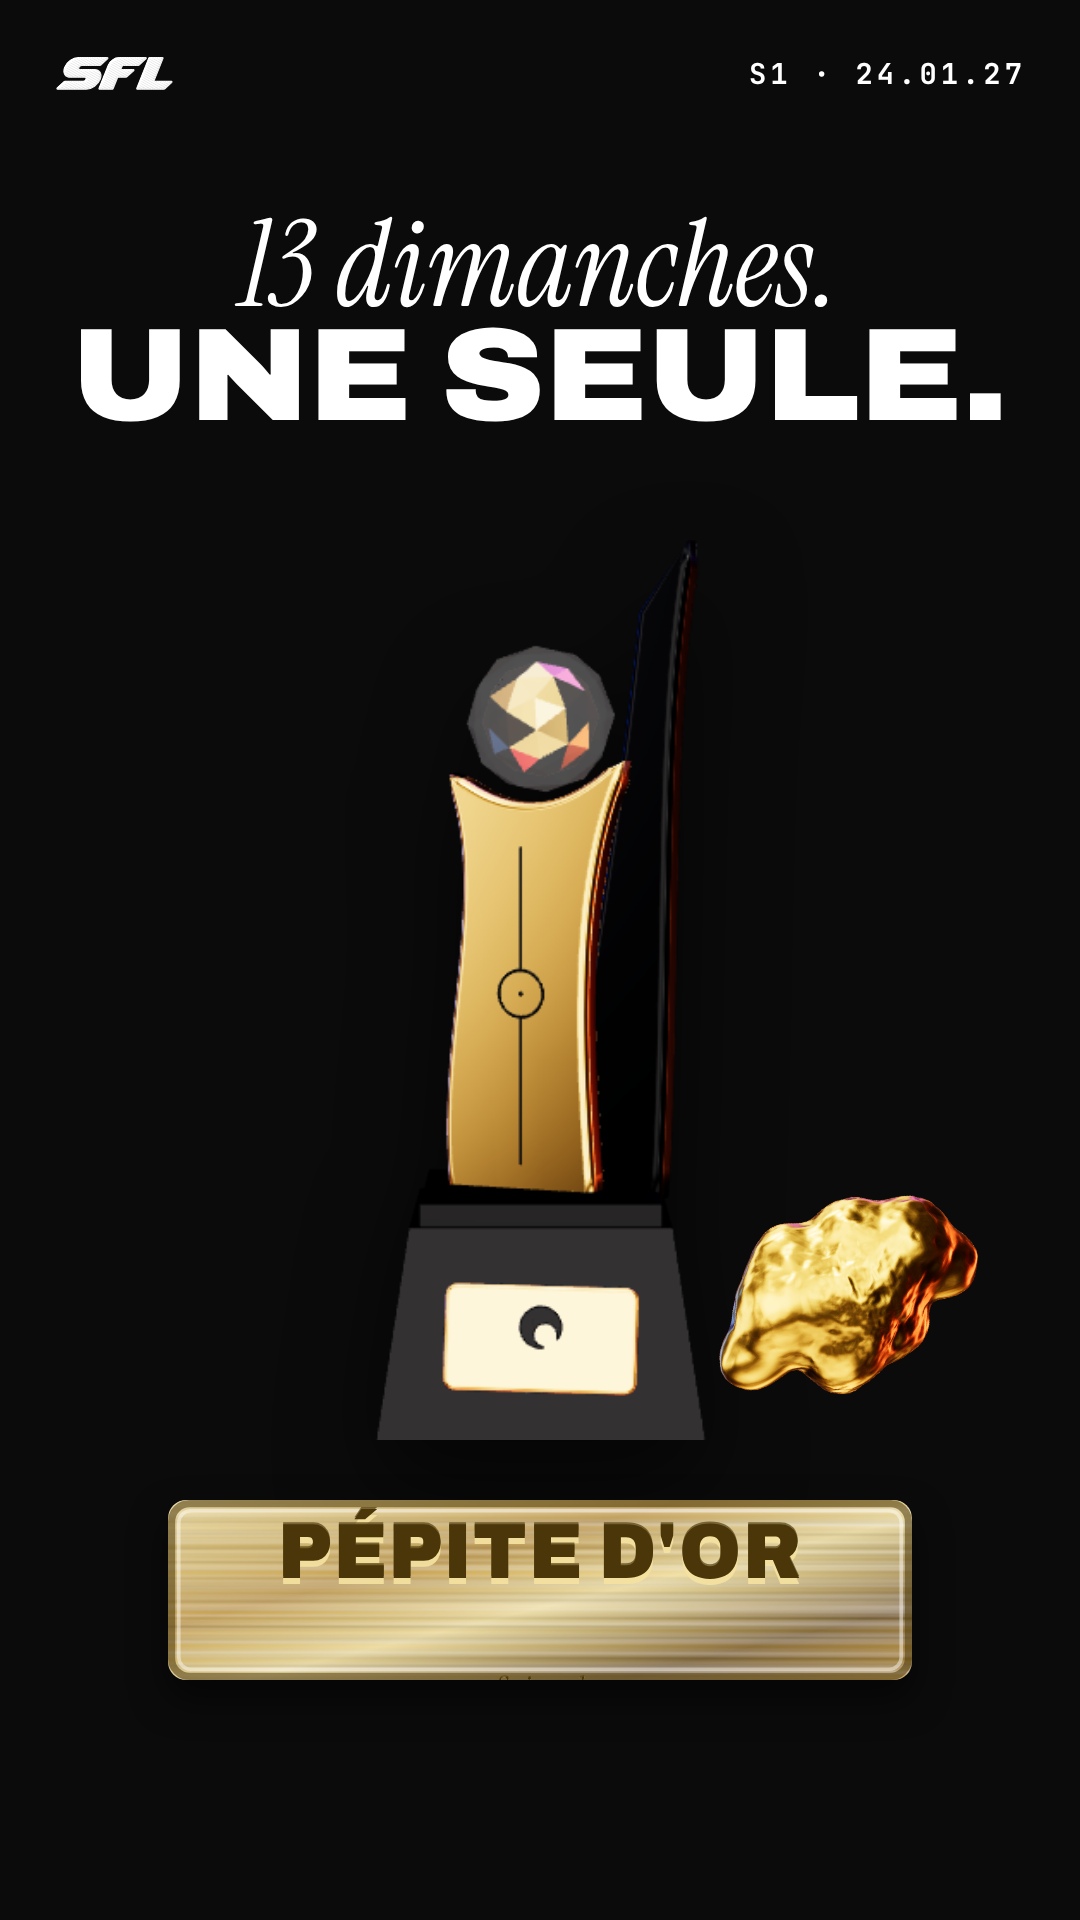
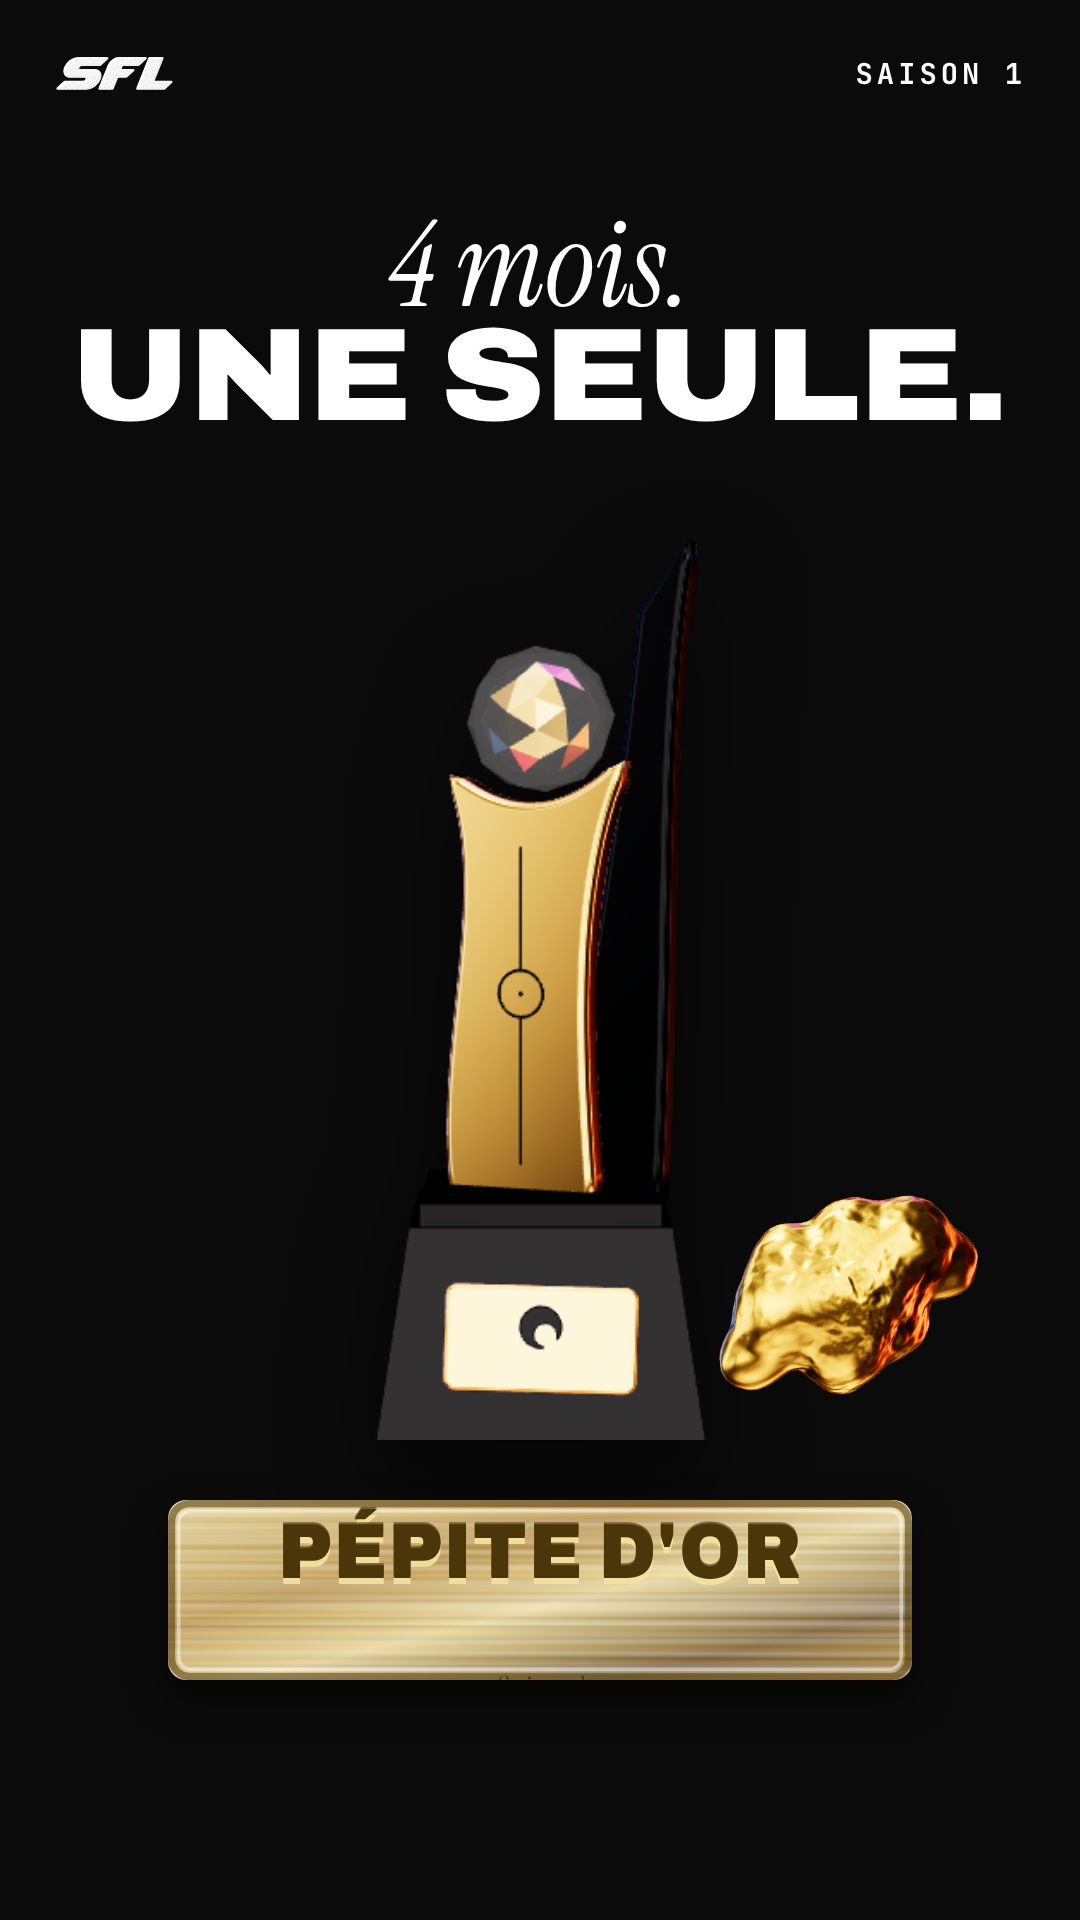
Saison de 4 mois (16 à 18 journées) : « 13 dimanches » remplacé dans les visuels, la bio, les pubs et les fiches
Claude-Session: https://claude.ai/code/session_01T2vpMdLA1mAj6R84rgNPVD

diff --git a/reseaux/kit-v2/kit2.py b/reseaux/kit-v2/kit2.py
@@ -66,15 +66,15 @@ job('posts/09-le-lieu',W,H,6,f'''<div class="ph" style="inset:0;background-image
 <div style="position:absolute;left:10px;right:10px;bottom:10px;padding:8px 9px;overflow:hidden">{papier(161,60)}<div style="position:relative;color:{EN}"><div class="S" style="font-size:13px;color:{EM}">Ici, tout le monde commence</div><div class="A" {A(125,20)}>inconnu.</div></div></div>''')
 coupes=[('coupe-pepite',"Pépite d'Or"),('coupe-buteur','Buteur'),('coupe-passeur','Passeur'),('coupe-defenseur','Défenseur'),('coupe-mvp','MVP')]
 row=''.join(f'<div style="display:grid;justify-items:center;gap:5px"><img src="{TR(c+"-or")}" style="height:{74 if i==0 else 54}px;display:block;filter:drop-shadow(0 3px 4px rgba(0,0,0,.5))"><div class="A" style="font-stretch:62%;font-size:{8 if i==0 else 6.5}px;color:{BLANC};text-align:center;white-space:nowrap">{n}</div></div>' for i,(c,n) in enumerate(coupes))
-job('posts/10-trophees-saison',W,H,6,f'<div style="position:absolute;inset:0;background:{NOIR}"></div>'+top(BLANC,'Saison 1 · 24.01.27',BLANC)+f'''<div style="position:absolute;left:12px;right:12px;top:26px;color:{BLANC}"><div class="S" style="font-size:14px;color:{BLANC}">Ce qui se gagne cette saison</div><div class="A" {A(125,20)}>Les trophées</div></div>
+job('posts/10-trophees-saison',W,H,6,f'<div style="position:absolute;inset:0;background:{NOIR}"></div>'+top(BLANC,'Saison 1',BLANC)+f'''<div style="position:absolute;left:12px;right:12px;top:26px;color:{BLANC}"><div class="S" style="font-size:14px;color:{BLANC}">Ce qui se gagne cette saison</div><div class="A" {A(125,20)}>Les trophées</div></div>
 <div style="position:absolute;left:6px;right:6px;bottom:40px;display:flex;justify-content:space-around;align-items:flex-end">{row}</div>
 <div style="position:absolute;left:12px;right:12px;bottom:12px;text-align:center">{mono("L'or au 1er · l'argent au 2e · le bronze au 3e · gardés à vie",'#ffffffaa',4.2)}</div>''')
 job('posts/11-pepite-or',W,H,6,f'<div style="position:absolute;inset:0;background:{NOIR}"></div>'+top(BLANC,'24.01.27',BLANC)+f'''<div style="position:absolute;left:0;right:0;top:20px;text-align:center"><div class="S" style="font-size:14px;color:{BLANC}">La nuit de la</div></div>
 <img src="{TR('coupe-pepite-or')}" style="position:absolute;left:50%;top:38px;height:112px;transform:translateX(-50%);filter:drop-shadow(0 6px 8px rgba(0,0,0,.6))">
 <div style="position:absolute;left:28px;top:156px">{plaque("Pépite d'Or",'or',124,30,13,'Saison 1',95)}</div><div style="position:absolute;left:0;right:0;top:192px;display:flex;justify-content:center">{pierre('diamant',10)}</div>
-<div style="position:absolute;left:0;right:0;bottom:10px;text-align:center">{mono('13 dimanches · une seule',BLANC,4.6)}</div>''')
+<div style="position:absolute;left:0;right:0;bottom:10px;text-align:center">{mono('4 mois · une seule',BLANC,4.6)}</div>''')
 job('posts/12-annonce-saison',W,H,6,tissu(VB,W,H)+couture(OR,6,4)+top(CR,'Annonce',OR)+f'''<div style="position:absolute;left:0;right:0;top:22%;display:flex;justify-content:center">{brode(OR,'34px')}</div>
-<div style="position:absolute;left:0;right:0;top:50%;text-align:center;color:{CR}"><div class="S" style="font-size:16px;color:{OR}">Saison 1</div><div class="A" {A(100,18)}>13 dimanches.</div><div style="margin-top:6px">{mono('1er nov. → 24 janv. · 12 h 30',CR,4.4)}<br>{mono('Métropole lilloise',CR,4.4)}</div></div>''')
+<div style="position:absolute;left:0;right:0;top:50%;text-align:center;color:{CR}"><div class="S" style="font-size:16px;color:{OR}">Saison 1</div><div class="A" {A(100,18)}>4 mois.</div><div style="margin-top:6px">{mono('16 à 18 journées · 12 h 30',CR,4.4)}<br>{mono('Métropole lilloise',CR,4.4)}</div></div>''')
 # LIFESTYLE & MODE : pastels
 job('posts/13-la-tenue',W,H,6,f'<div style="position:absolute;inset:0;background:{BLANC}"></div>'+top(NOIR,'Lifestyle',NOIR)+f'''<div style="position:absolute;left:30px;right:18px;top:30px;height:50%;background:#EDCFD4"></div>
 <div class="ph" style="left:22px;right:26px;top:24px;height:50%;background-image:url({PH['04-maillot']});background-position:50% 25%;filter:grayscale(1) contrast(1.08)"></div>
@@ -92,7 +92,7 @@ job('reels/02-il-te-manque',W,V,6,f'<div style="position:absolute;inset:0;backgr
 job('reels/03-il-manque-1',W,V,6,terre(W,V)+top(CR,'Dimanche 12 h 30')+f'''<div style="position:absolute;left:12px;right:20px;top:24%;color:{CR}"><div class="A" {A(125,27)}>Il manque</div><div class="A" {A(125,150,"line-height:.8")}>1.</div><div style="margin-top:10px">{mono('Viens seul · getbola.app',CR,7)}</div></div>''')
 job('reels/04-podium',W,V,6,f'<div style="position:absolute;inset:0;background:{NOIR}"></div>'+top(BLANC,'S1 · après la J4',BLANC)+f'''<div style="position:absolute;left:12px;top:26px"><div class="A" {A(110,19,f"color:{BLANC}")}>La course</div><div class="S" style="font-size:18px;color:{BLANC}">à la Pépite d'Or</div></div>
 <div style="position:absolute;left:8px;right:8px;top:40%;display:flex;align-items:flex-end;justify-content:center;gap:6px">{pod(C['jouneid'],42,2,'Jouneiid',398,4)}{pod(C['souley'],66,1,'Souley',412,4)}{pod(C['coucoupops'],42,3,"Coucoupop's",377,3)}</div>''')
-job('reels/05-pepite-or',W,V,6,f'<div style="position:absolute;inset:0;background:{NOIR}"></div>'+top(BLANC,'S1 · 24.01.27',BLANC)+f'''<div style="position:absolute;left:0;right:0;top:34px;text-align:center"><div class="S" style="font-size:20px;color:{BLANC}">13 dimanches.</div><div class="A" {A(110,22,f"color:{BLANC}")}>Une seule.</div></div>
+job('reels/05-pepite-or',W,V,6,f'<div style="position:absolute;inset:0;background:{NOIR}"></div>'+top(BLANC,'Saison 1',BLANC)+f'''<div style="position:absolute;left:0;right:0;top:34px;text-align:center"><div class="S" style="font-size:20px;color:{BLANC}">4 mois.</div><div class="A" {A(110,22,f"color:{BLANC}")}>Une seule.</div></div>
 <img src="{TR('coupe-pepite-or')}" style="position:absolute;left:50%;top:90px;height:150px;transform:translateX(-50%);filter:drop-shadow(0 6px 8px rgba(0,0,0,.6))">
 <img src="{TR('pepite-or')}" style="position:absolute;right:16px;top:200px;width:46px;transform:rotate(-12deg)">
 <div style="position:absolute;left:28px;top:250px">{plaque("Pépite d'Or",'or',124,30,13,'Saison 1',95)}</div>''')

diff --git a/reseaux/kit-chrome/t8.py b/reseaux/kit-chrome/t8.py
@@ -38,7 +38,7 @@ slide('02-pas-d-equipe',photo(BC,'center 60%',.72),f'<div class="H C" style="pos
 slide('03-tu-viens-seul',photo(CG,'center 55%',.6)+spot('50%','55%',.3),f'<div class="H" style="position:absolute;left:0;right:0;top:80px;text-align:center;font-size:13px">Chaque dimanche,</div><div class="H C" style="position:absolute;left:0;right:0;top:96px;text-align:center;font-size:30px">Tu viens seul.</div><div class="m" style="position:absolute;left:0;right:0;top:132px;text-align:center;font-size:4px;color:#ddd">L’app fait les équipes. Noirs contre Blancs.</div>','03')
 slide('04-mercenaires',photo(CO,'center 45%',.55),f'<div class="H" style="position:absolute;left:12px;top:46px;font-size:13px">Ici, on est tous des</div><div class="H C" style="position:absolute;left:12px;top:60px;font-size:29px">Mercenaires.</div><div class="m" style="position:absolute;left:12px;bottom:24px;font-size:4.2px;line-height:1.7;color:#ddd;letter-spacing:.24em">Coéquipier ce dimanche.<br>Adversaire le suivant.<br>Tu ne joues que pour toi.</div>','04')
 slide('05-tout-compte',f'<div style="position:absolute;inset:0;background:#070707"></div>'+spot('70%','50%',.25)+f'<img src="{cartes("jouneiid-d1")}" style="position:absolute;right:12px;top:96px;width:50px;border-radius:3px;transform:rotate(5deg);box-shadow:0 6px 16px #000">',f'<div class="H C" style="position:absolute;left:12px;top:44px;font-size:34px">Tout</div><div class="H C" style="position:absolute;left:12px;top:72px;font-size:34px">compte.</div><div style="position:absolute;left:12px;top:124px;width:86px">{"".join(f"<div style=\'display:flex;justify-content:space-between;border-top:.5px solid rgba(255,255,255,.18);padding:3.5px 0\'><span class=\'m\' style=\'color:#fff\'>{a}</span><span class=\'H\' style=\'font-size:9px\'>{b}</span></div>" for a,b in [("Tes buts","✓"),("Tes passes","✓"),("Ta note","87"),("Ton rang","1er")])}</div>','05')
-slide('06-viens-seul',photo(CG,'center 60%',.62)+spot('50%','34%'),f'<div style="position:absolute;left:50%;top:32%;transform:translate(-50%,-50%)">{hero(40)}</div><div class="H" style="position:absolute;left:0;right:0;top:128px;text-align:center;font-size:10px">13 dimanches. Une seule Pépite d’or.</div><div class="H C" style="position:absolute;left:0;right:0;top:146px;text-align:center;font-size:34px">Viens seul.</div><div style="position:absolute;left:50%;bottom:22px;transform:translateX(-50%);background:#F4F4F2;color:#0A0A0A;font:800 4.4px Inter;letter-spacing:.28em;padding:5px 9px;white-space:nowrap">GETBOLA.APP/SFL</div>','06')
+slide('06-viens-seul',photo(CG,'center 60%',.62)+spot('50%','34%'),f'<div style="position:absolute;left:50%;top:32%;transform:translate(-50%,-50%)">{hero(40)}</div><div class="H" style="position:absolute;left:0;right:0;top:128px;text-align:center;font-size:10px">4 mois. Une seule Pépite d’or.</div><div class="H C" style="position:absolute;left:0;right:0;top:146px;text-align:center;font-size:34px">Viens seul.</div><div style="position:absolute;left:50%;bottom:22px;transform:translateX(-50%);background:#F4F4F2;color:#0A0A0A;font:800 4.4px Inter;letter-spacing:.28em;padding:5px 9px;white-space:nowrap">GETBOLA.APP/SFL</div>','06')
 # YouTube : post de communauté / miniature 16:9
 job('manifeste/youtube-16x9',160,90,8,photo(CO,'center 45%',.6)+spot('30%','50%',.3)+f'<div style="position:absolute;left:8px;top:7px">{logo(10)}</div><div class="H" style="position:absolute;left:8px;top:30px;font-size:9px">La nouvelle ère du foot à 5</div><div class="H C" style="position:absolute;left:8px;top:39px;font-size:24px">Mercenaires</div><div class="H C" style="position:absolute;left:8px;top:68px;font-size:13px">du dimanche.</div>'+edge())
 json.dump(JOBS,open('jobs8.json','w')); print(len(JOBS))

diff --git a/reseaux/campagnes/camp.py b/reseaux/campagnes/camp.py
@@ -16,7 +16,7 @@ META=[
 TT=[('T1 · Spark Ad du meilleur « But du Dimanche » de novembre','Le TikTok organique qui a le mieux marché en novembre (code d\'autorisation Spark à générer depuis le compte SFL)','Foot à 5 le dimanche, métropole lilloise. Viens seul. #foota5 #sundayfiveleague','le-but-spark'),
 ('T2 · Spark Ad « Il manque 1. »','Le TikTok « Il manque 1. » publié début décembre','Il manque un joueur dimanche. Viens seul. #foota5','il-manque-1-spark')]
 H=['Foot à 5 le dimanche','Viens seul, on te place','La ligue du dimanche','Le five du dimanche','Pas besoin d\'équipe','100 places chaque dimanche','Métropole lilloise','Tes stats, ta carte','Vise la Pépite d\'Or','Inscription en 2 minutes','Sunday Five League','Joue chaque dimanche','Le dimanche, 12 h 30','Rejoins la SFL','70 € la saison']
-DSC=['Foot à 5 le dimanche, métropole lilloise. Tu viens seul, l\'app te place.','Tes buts, tes passes et ta carte de joueur, mis à jour après chaque dimanche.','13 dimanches, un classement, une Pépite d\'Or. Inscris-toi sur getbola.app.','Chaque dimanche à 12 h 30. 100 places. 70 € la saison.']
+DSC=['Foot à 5 le dimanche, métropole lilloise. Tu viens seul, l\'app te place.','Tes buts, tes passes et ta carte de joueur, mis à jour après chaque dimanche.','4 mois, un classement, une Pépite d\'Or. Inscris-toi sur getbola.app.','Chaque dimanche à 12 h 30. 100 places. 70 € la saison.']
 KW=['"foot à 5 lille"','"five lille"','"foot 5 lille"','"foot dimanche lille"','"ligue foot lille"','"match de foot lille"','"futsal lille"','"jouer au foot lille"','[foot a 5 lille]','[five lille]']
 NEG=['emploi','recrutement club','urban soccer tarif','location terrain','anniversaire','enfant','école de foot','stage','pro','billet','losc']
 for h in H: assert len(h)<=30,(h,len(h))

diff --git a/reseaux/youtube-twitch/card.py b/reseaux/youtube-twitch/card.py
@@ -40,7 +40,7 @@ yt=card(1,2,'YouTube','YouTube','@SFLfr · la chaîne',[
 ('Bannière',['Branding','Image de bannière'],'youtube-banniere-2560x1440'),
 ('Filigrane',['Branding','Filigrane vidéo','Toute la vidéo'],'youtube-filigrane'),
 ('Nom',['Informations de base','Nom'],'SFL · Sunday Five League'),
-('Description',['Informations de base','Description'],"La Sunday Five League : la ligue de foot à 5 du dimanche de la métropole lilloise. Tu viens seul, l'app BOLA fait les équipes, compte tes stats et fait évoluer ta carte. 13 dimanches, une Pépite d'Or.\nLe direct chaque dimanche à 12 h 30, le résumé chaque lundi.\nViens jouer : getbola.app/sfl"),
+('Description',['Informations de base','Description'],"La Sunday Five League : la ligue de foot à 5 du dimanche de la métropole lilloise. Tu viens seul, l'app BOLA fait les équipes, compte tes stats et fait évoluer ta carte. 4 mois, une Pépite d'Or.\nLe direct chaque dimanche à 12 h 30, le résumé chaque lundi.\nViens jouer : getbola.app/sfl"),
 ('Liens',['Informations de base','Liens'],'Viens jouer · getbola.app/sfl\nInstagram · instagram.com/sundayfiveleague\nTwitch · twitch.tv/sflfrance'),
 ('4 playlists',['Contenu','Playlists','Nouvelle'],'SFL Live\nLe Résumé\nLe Top 5\nLe Défi Pépite'),
 ('Active le direct (24 h d’attente)',['Créer','Passer au direct','Vérifier le téléphone'],''),

diff --git a/reseaux/instagram/lancement.md b/reseaux/instagram/lancement.md
@@ -11,7 +11,7 @@
 
 ```
 Ligue de foot à 5 du dimanche · métropole lilloise
-Pas d'équipe : viens seul. 13 dimanches, une Pépite d'Or.
+Pas d'équipe : viens seul. 4 mois, une Pépite d'Or.
 Stats et cartes : BOLA ↓
 ```
 - **Lien** : `https://getbola.app/sfl?utm_source=instagram&utm_medium=bio`
@@ -34,7 +34,7 @@ La grille affiche le plus récent en haut à gauche : on publie donc du n° 9 au
 | 8 | Jour 1 | `posts/10-trophees-saison.png` | — | Ce qui se gagne cette saison. Pépite d'Or, Buteur, Passeur, Défenseur, MVP : l'or au 1er, l'argent au 2e, le bronze au 3e. Gardés à vie. #foota5 #metropolelilloise #pepitedor |
 | 7 | Jour 1 | `posts/05-dimanche.png` | — | Dimanche, 12 h 30. Les crampons sont prêts, et toi ? Inscription : lien en bio. #foota5 #metropolelilloise #sundayfiveleague |
 | 6 | Jour 2 | `posts/14-dans-le-sac.png` | — | Dans le sac du dimanche : les crampons, le maillot, la gourde, le téléphone pour ta story. Et rien d'autre : tu viens seul. #foota5 #metropolelilloise |
-| 5 | Jour 3 | `posts/12-annonce-saison.png` | — | Saison 1. 13 dimanches, du 1er novembre au 24 janvier, dans la métropole lilloise. Une seule Pépite d'Or. #sundayfiveleague #foota5 #metropolelilloise |
+| 5 | Jour 3 | `posts/12-annonce-saison.png` | — | Saison 1. 4 mois, de novembre à février, dans la métropole lilloise. Une seule Pépite d'Or. #sundayfiveleague #foota5 #metropolelilloise |
 | 4 | Jour 4 | `posts/02-classement.png` | — | La course à la Pépite d'Or, après la J[n]. Qui te devance, et de combien ? Ta place est dans l'app. #pepitedor #foota5 #metropolelilloise |
 | 3 | Jour 5 | `posts/04-le-but.png` | Le buteur (s'il a signé) | Et soudain, but. [Prénom], terrain [n], [minute]. Le But du Dimanche de la J[n]. #foota5 #metropolelilloise #sundayfiveleague |
 | 2 | Jour 6 | `posts/13-la-tenue.png` | — | La tenue du dimanche. Maillot SFL, saison 1. #foota5 #metropolelilloise #football |

diff --git a/reseaux/04-decisions.md b/reseaux/04-decisions.md
@@ -1,5 +1,7 @@
 # 04. Les décisions qui te reviennent
 
+**Durée de la saison (Sabri, 16/11)** : 4 mois, au moins 16 journées, sans doute 18. On n'écrit plus « 13 dimanches » (c'était le nombre de dimanches filmés promis aux sponsors, du 1/11 au 24/01). Dans les visuels : « 4 mois ». La date de la finale reste à fixer.
+
 **Règle de communication (12/11)** : aucun nom de ville ni de lieu dans ce qui est publié ; on dit « la métropole lilloise », sans géolocalisation des posts.
 
 ## Décidé le 01/11

diff --git a/reseaux/kit-chrome/manifeste/legende.md b/reseaux/kit-chrome/manifeste/legende.md
@@ -10,7 +10,7 @@ Chaque dimanche, tu viens seul et l'app fait les équipes : Noirs contre Blancs.
 Coéquipier ce dimanche, adversaire le suivant. Ici, on est tous des mercenaires.
 Tes buts, tes passes, ta note, ton rang : tout compte.
 
-13 dimanches. Une seule Pépite d'Or.
+4 mois. Une seule Pépite d'Or.
 Viens seul : lien en bio.
 
 #foota5 #sundayfiveleague #metropolelilloise #football
